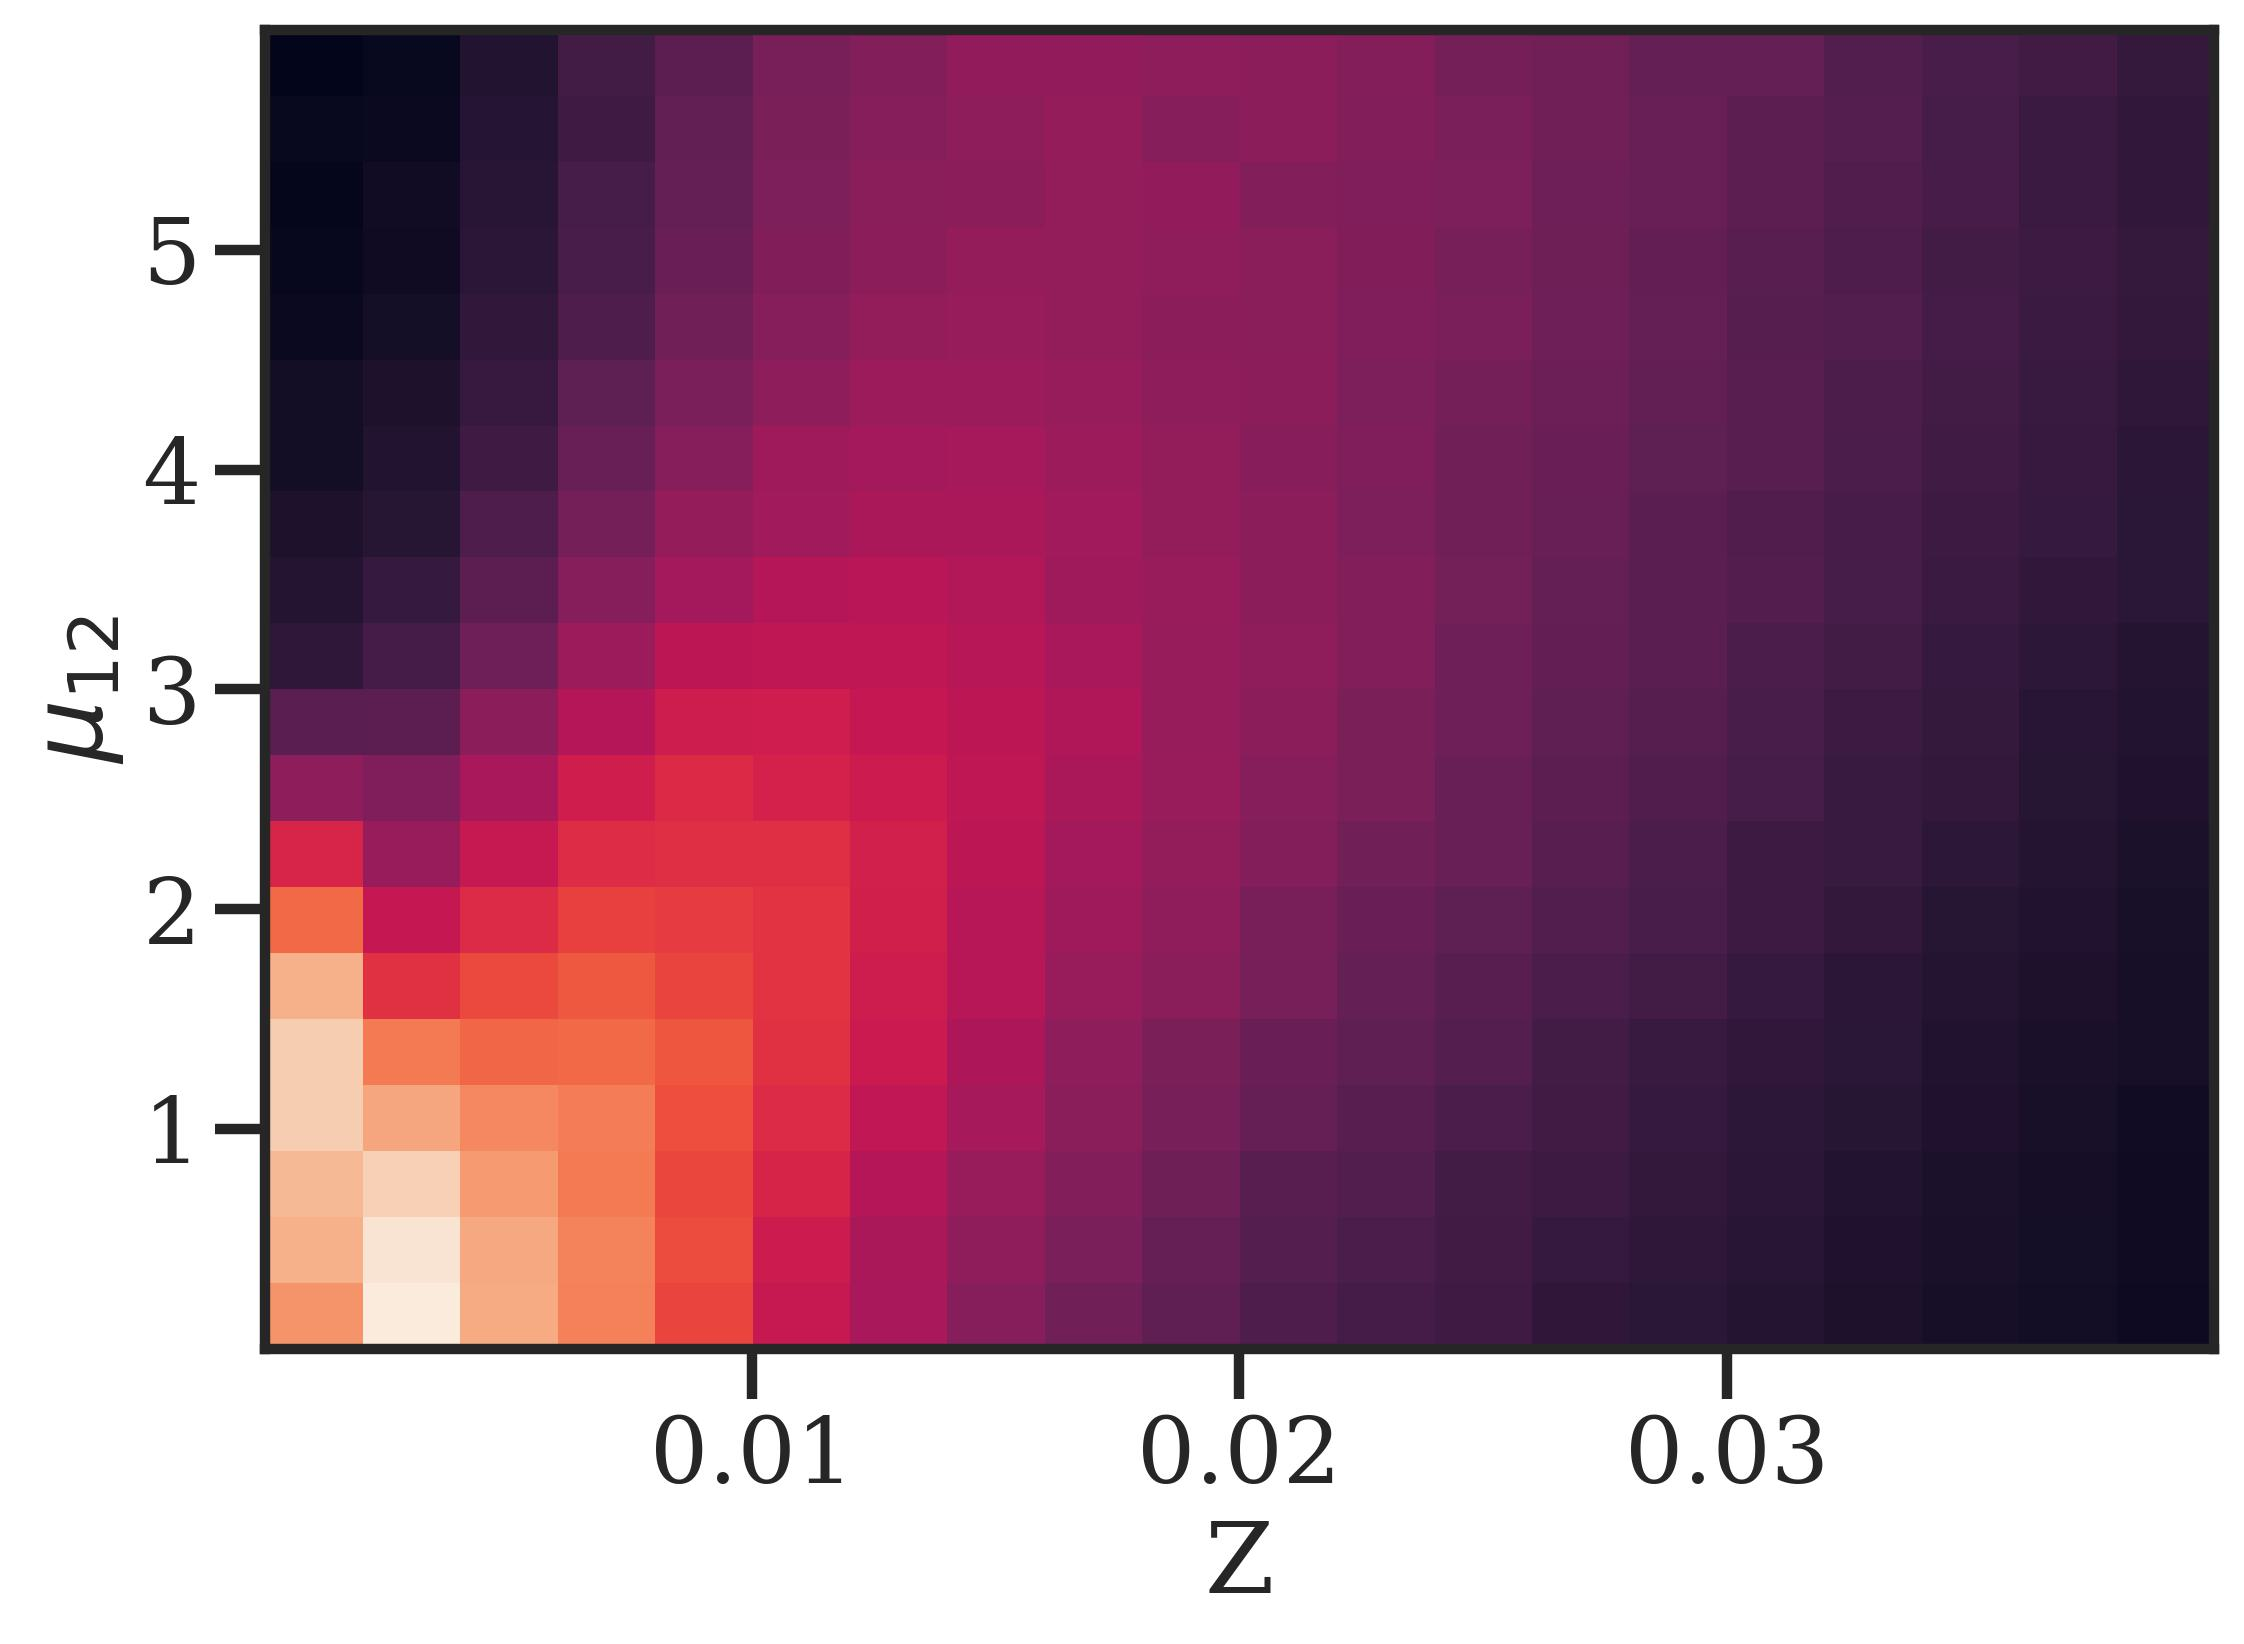
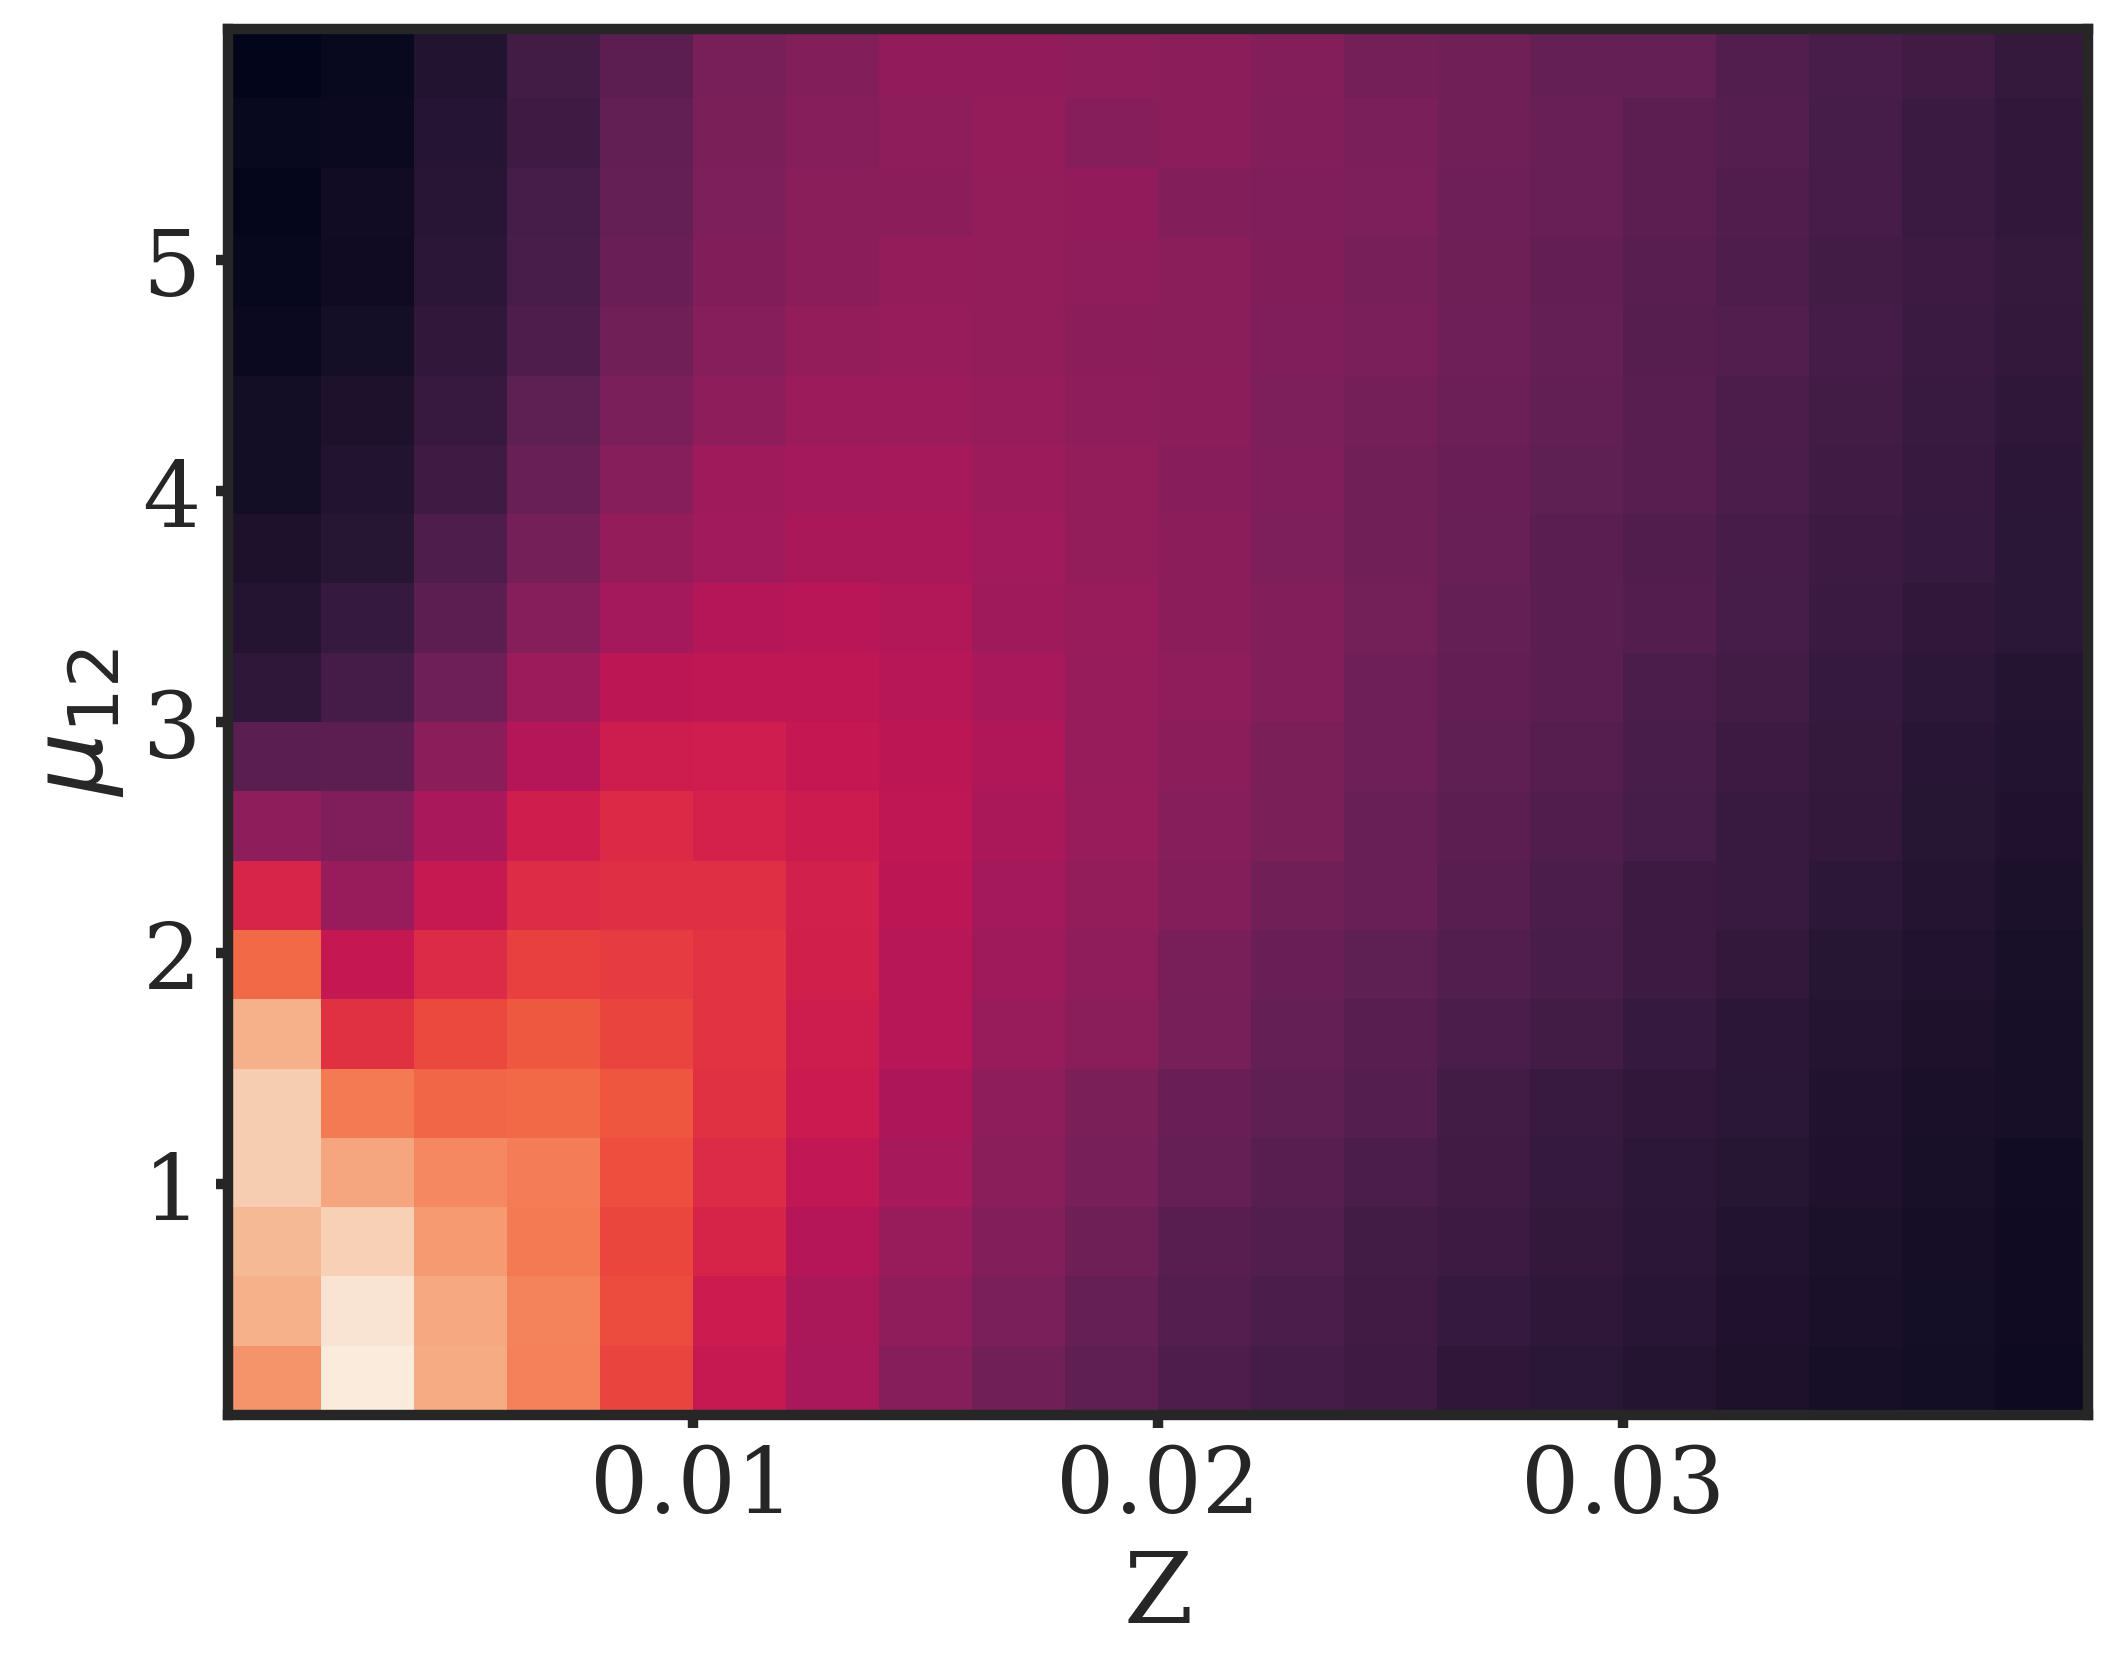
update tick size

diff --git a/mcmc/analyzeMCMC.py b/mcmc/analyzeMCMC.py
@@ -21,7 +21,8 @@ plt.rcParams['xtick.top'] = False
 plt.rcParams['ytick.direction'] = 'out'
 plt.rcParams['xtick.direction'] = 'out'
 
-plt.rcParams['figure.autolayout'] = True
+plt.rcParams['xtick.major.size'] = 3
+plt.rcParams['ytick.major.size'] = 3
 
 def plotCorner(chain, log):
     '''
